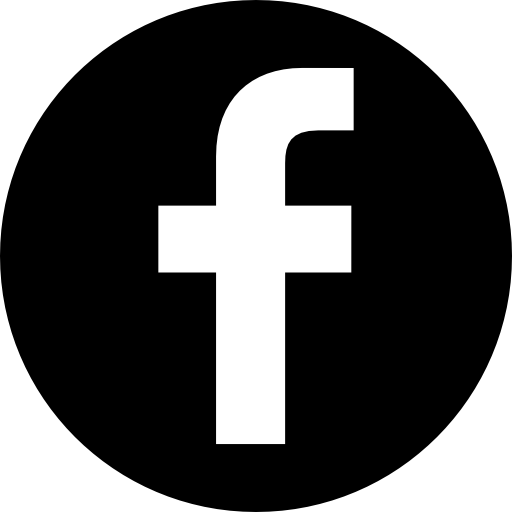
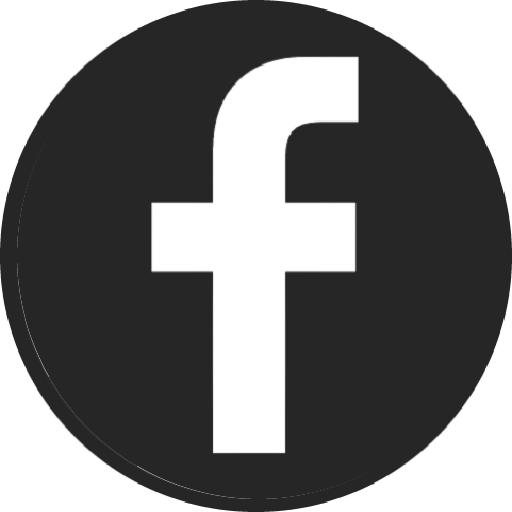
Entrega pronta.

diff --git a/css/index.css b/css/index.css
@@ -4,7 +4,16 @@
 }
 
 body{
-    font-family: 'Lucida Sans', 'Lucida Sans Regular', 'Lucida Grande', 'Lucida Sans Unicode', Geneva, Verdana, sans-serif;
+    font-family:Cambria, Cochin, Georgia, Times, 'Times New Roman', serif;
+    background-color: #262626;
+}
+button#botaoCSS{
+    float: left;
+    margin: 0px 0px 0px 6vh;
+    padding: 5px;
+    border-radius: 5px;
+    background-color: #D5D96C;
+    border: none;
 }
 
 section{
@@ -15,6 +24,7 @@ section{
 }
 
 header, footer{
+    background-color: #D93B3B;
     text-align: center;
     margin: auto;
     padding: auto;
@@ -23,16 +33,28 @@ header, footer{
 }
 main{
     height: 70vh;
-    background-color: rgb(4, 119, 39);
+    background-image: url("/imgs/bg-portifolio.jpeg");
+    opacity: 0.6;
+    backface-visibility: hidden;
     flex: 1;
     padding: 2vh;
+    font-weight: normal;
+    font-family: 'Courier New', Courier, monospace;
+    color: white;
 }
 
-aside{
-    width: 20vw;
-    height: 74vh;
-    background-color: cadetblue;
+main fieldset{
+    padding: 10px;
 }
+
+div.bg-main{
+    background-color: rgba(70, 73, 67, 0.5);
+    margin: auto;
+    padding: 20px;
+    width: 90%;
+    height:90%;
+}
+
 
 nav ul{
     margin: 0px;
@@ -42,13 +64,14 @@ nav ul{
 
 nav ul li{
     display: inline-block;
-    width: 30px;
-    height: 30px;
+    width: 35px;
+    height: 35px;
     background-position: center;
     background-repeat: no-repeat;
     background-size: cover;
     position: relative;
     opacity: 0.8;
+    border-radius: 100%;
 }
 nav ul li:hover{
     opacity:1;
@@ -61,19 +84,19 @@ nav ul li.face{
     background-image: url("/imgs/face-pt.png");
 }
 nav ul li.face:hover{
-    background-image: url("/imgs/face-color.png");
+    background-image: url("/imgs/face-rgb.png");
 }
 nav ul li.insta{
-    background-image: url("/imgs/instagran-pt.png");
+    background-image: url("/imgs/insta-pt.png");
 }
 nav ul li.insta:hover{
-    background-image: url("/imgs/instagran-color.png");
+    background-image: url("/imgs/insta-rgb.png");
 }
 nav ul li.linkedin{
     background-image: url("/imgs/linkedin-pt.png");
 }
 nav ul li.linkedin:hover{
-    background-image: url("/imgs/linkedin-color.png");
+    background-image: url("/imgs/linkedin-rgb.png");
 }
 
 nav ul li a{
@@ -82,27 +105,43 @@ nav ul li a{
     display: block;
 }
 
+
+aside{
+    width: 20vw;
+    height: 74vh;
+    background-color: #D93B3B;
+}
+
 ol{
-    margin-left: 7vh;
+    margin-left: 3vh;
     margin-top: 4vh;
     padding: 0px;
     list-style: none;
+    display: inline-block;
+    width: 90%;
+    color: #D5D96C;
+}
+
+ol li input{
+    width: 90%;
 }
 
 img{
-    background-color: darkblue;
-    width: 20vh;
-    height: 20vh;
-    border-radius: 50vh;
+    position: relative;
+    width: 7em;
+    height: 7em;
+    border-radius: 100%;
+    border: 1px solid #262626;
 }
 
 div.fundo{
-    background-color: rgb(10, 4, 41);
-    width: 20vh;
-    height: 20vh;
-    border-radius: 50vh;
-    margin-left: 10vh;
-    margin-top: 4vh;
+    background-color: #A69586;
+    border: 1px solid #262626;
+    width: 7em;
+    height: 7em;
+    border-radius: 100%;
+    margin-left: 25%;
+    margin-top: 10%;
     z-index: 1;
 }
 
@@ -117,6 +156,7 @@ figure{
 }
 
 footer p, header nav{
+    color: #262626;
     display: block;
     position:relative;
     top: 50%;

diff --git a/index_com_css.html b/index_com_css.html
@@ -10,11 +10,11 @@
         <title></title>
         <meta name="description" content="">
         <meta name="viewport" content="width=device-width, initial-scale=1">
-        <link rel="stylesheet" href=""> <!-- Página sem CSS-->
+        <link rel="stylesheet" href="css/index.css">
     </head>
     <body>
         <div class="portifolio">
-            <button id="botaoCSS" onclick="aplicarCSS()">&#10004; &#128075; &#128077; &#128073; Ver com CSS aplicado &#128525; &#128526; &#128536;</button>
+            <button id="botaoCSS" onclick="tirarCSS()">&#128281; &#128549;</button>
             <header>
                 <nav>
                     <ul>

diff --git a/js/index.js b/js/index.js
@@ -1,0 +1,7 @@
+function aplicarCSS(){
+   window.location.replace("index_com_css.html");
+}
+
+function tirarCSS(){
+   window.location.replace("index.html");
+}
